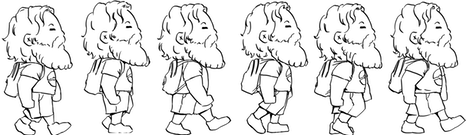
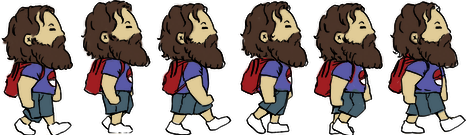
Resume implementado
e colori um spritesheet bem mais ou menos aqui hein,
temos q facilitar nossas vidas e permitir transparencia

diff --git a/src/StageState.cpp b/src/StageState.cpp
@@ -2,20 +2,8 @@
 
 StageState::StageState(){
     cout << "enter construtor STAGESTATE" << endl;
-	this->popRequested = false;
-	this->quitRequested = false; // iniciando o valor como falso
+	SetInitialStateValues();
 
-	this->pause = false;
-	this->stagePositionX = INIT_STAGE_X;
-	this->stagePositionY = INIT_STAGE_Y;
-	this->spawn = 0;
-    this->lixo = 0;
-	this->clock.SetTime(STAGE_DURATION);
-	this->waitEnd = WAIT_END_DURATION;
-	this->gameEnd = false;
-
-    Camera::pos = Vec2(stagePositionX,stagePositionY);
-	Camera::Resume();
 	cout << "exit contrutor STAGESTATE" << endl;
 }
 
@@ -140,6 +128,23 @@ void StageState::AddObjectStatic(GameObject* ptr){
     |  |  |
     V  V  V
 */
+
+void StageState::SetInitialStateValues(){
+    this->popRequested = false;
+	this->quitRequested = false; // iniciando o valor como falso
+
+	this->pause = false;
+	this->stagePositionX = INIT_STAGE_X;
+	this->stagePositionY = INIT_STAGE_Y;
+	this->spawn = 0;
+    this->lixo = 0;
+	this->clock.SetTime(STAGE_DURATION);
+	this->waitEnd = WAIT_END_DURATION;
+	this->gameEnd = false;
+
+    Camera::pos = Vec2(stagePositionX,stagePositionY);
+	Camera::Resume();
+}
 
 //verifica se o jogo acabou
 void StageState::CheckEndOfGame(){
@@ -339,6 +344,9 @@ void StageState::UpdateMenu(float dt){
                     break;
                 case RESTART:
                     //RestartStage();
+                    objectArray.clear();
+                    SetInitialStateValues();
+                    LoadAssets();
                     cout << "RESTART GAME" << endl;
                     break;
                 case QUIT_GAME:
@@ -352,6 +360,10 @@ void StageState::UpdateMenu(float dt){
                 case (RESTART - 1):
                     //RestartStage();
                     cout << "RESTART GAME" << endl;
+                    objectArray.clear();
+                    SetInitialStateValues();
+                    LoadAssets();
+                    this->clock.StartClock();
                     break;
                 case (QUIT_GAME - 1):
                     cout << "QUIT GAME" << endl;

diff --git a/src/StageState.h b/src/StageState.h
@@ -87,6 +87,7 @@ public:
 	void AddObjectStatic(GameObject* ptr);
 
 private:
+    void SetInitialStateValues();
     //Verifica se o jogo acabou
     void CheckEndOfGame();
     void SetEndOfGame(bool playerVictory);
